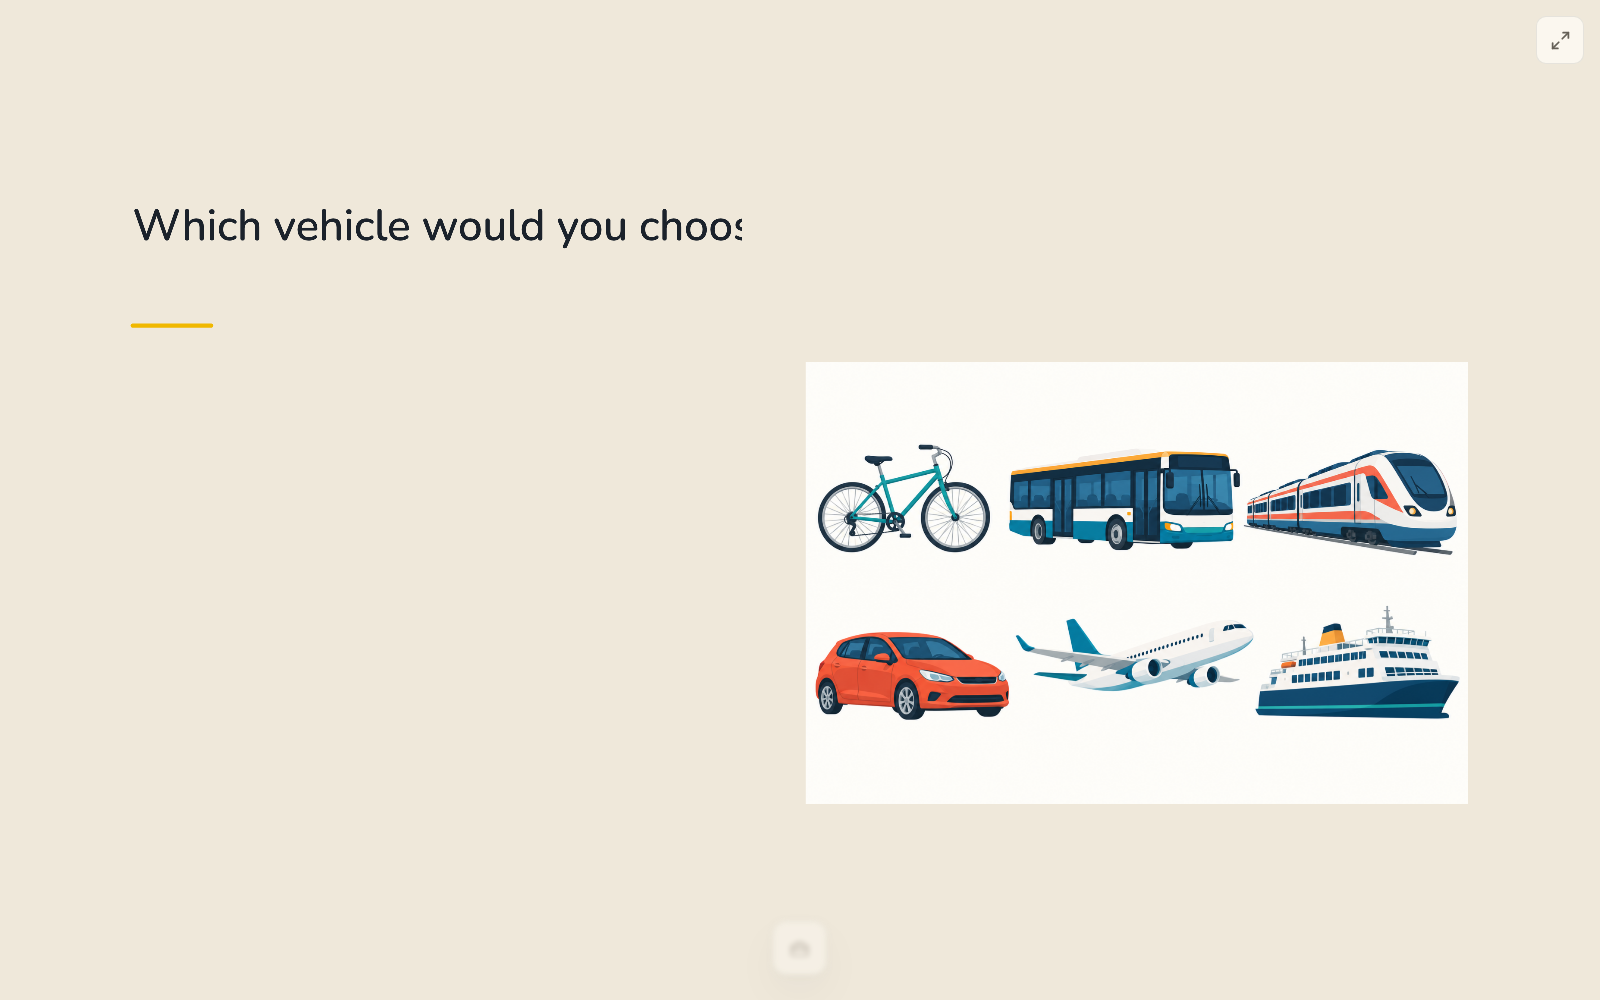
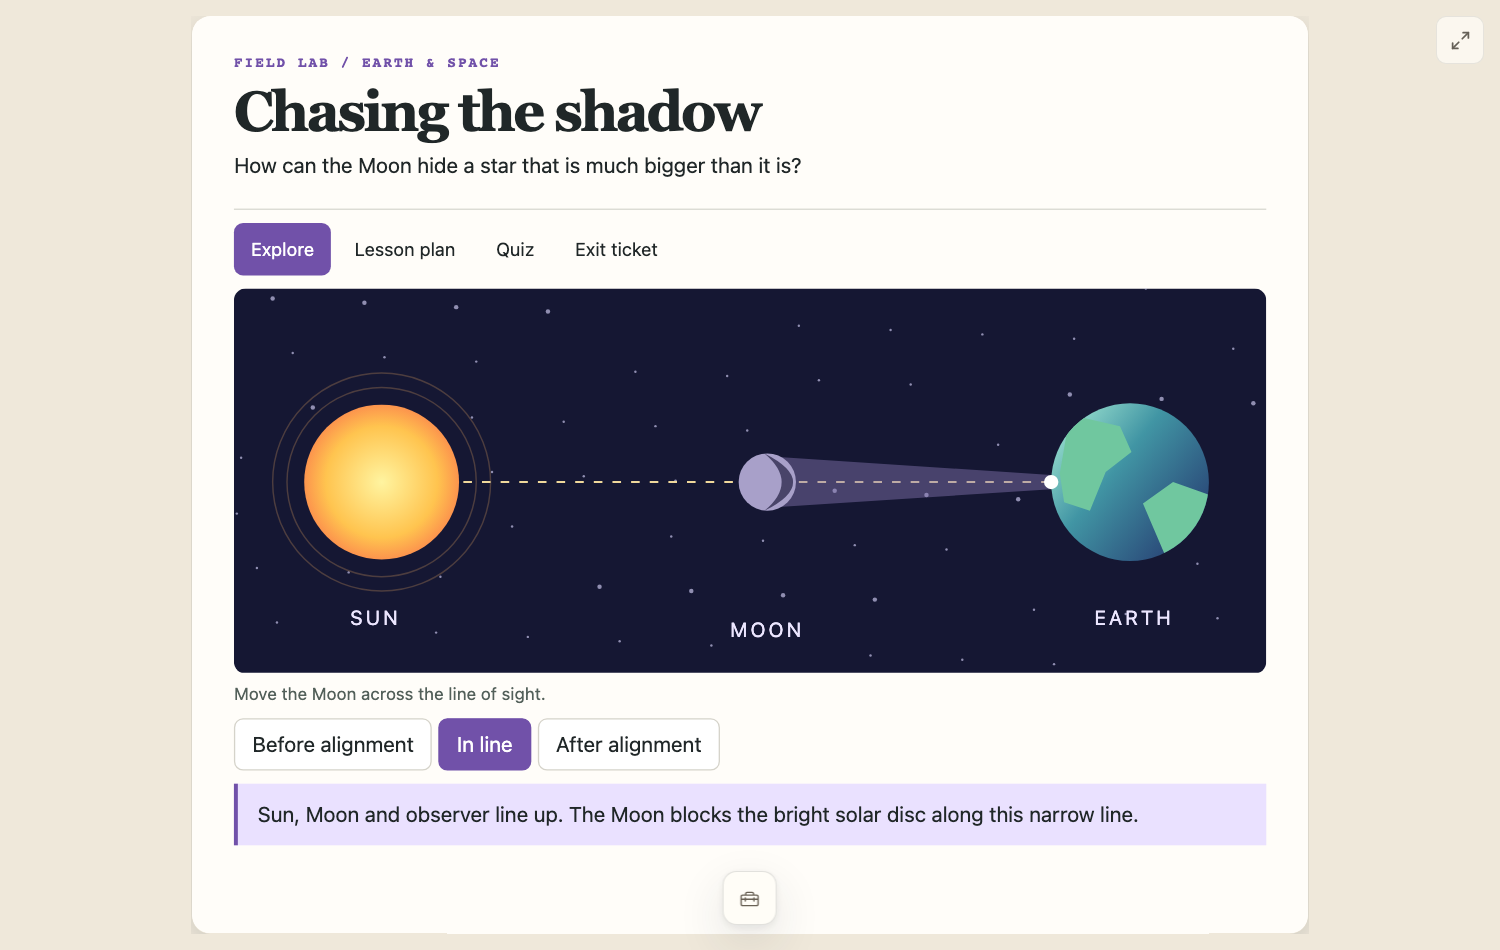
Offer a read-only hosted classroom preview with three interactive lessons

diff --git a/preview/guide.html b/preview/guide.html
@@ -1,0 +1,1 @@
+<!doctype html><html lang="en"><meta charset="utf-8"><meta name="viewport" content="width=device-width,initial-scale=1"><title>Tafelraum · Lesson guide</title><style>*{box-sizing:border-box}body{margin:0;background:#f5f0e7;color:#223430;font:17px/1.55 system-ui,sans-serif}main{max-width:780px;margin:7vh auto;padding:24px}h1{font:56px/1 Georgia,serif;letter-spacing:-.05em}a{color:#145649}article{background:#fffdf8;border-radius:12px;padding:14px 22px;margin:14px 0}h2{margin:0;font:26px Georgia,serif}small{display:block;color:#52645c;font-size:13px;margin-bottom:6px}</style><main><small>TAFELRAUM / PUBLIC PREVIEW</small><h1>Field investigations</h1><p>Try three 45-minute lessons on the real teacher canvas. Use the hand tool to operate each activity. Explore the diagram, open <b>Quiz</b>, then try <b>Present → Room Canvas</b> and select clip 1 to see just the material.</p><article><small>EARTH SCIENCE</small><h2><a href="/?lesson=eclipse">Chasing the shadow</a></h2><p>Move the Moon through three positions and explain who sees a solar eclipse.</p><a href="/api/archive/lessons/eclipse/materials/interactive/eclipse/index.html">Open just the activity</a></article><article><small>MATHEMATICS</small><h2><a href="/?lesson=map-room">The map room</a></h2><p>Trace two survey trails and use the scale to choose a route under a time limit.</p><a href="/api/archive/lessons/map-room/materials/interactive/map-room/index.html">Open just the activity</a></article><article><small>ENGLISH</small><h2><a href="/?lesson=dispatch">The midnight dispatch</a></h2><p>Compare three harbour records and decide which headline the evidence supports.</p><a href="/api/archive/lessons/dispatch/materials/interactive/dispatch/index.html">Open just the activity</a></article><p>You can draw, navigate and try the activities. Reloading restores the starting lesson. Imports, archive management and agent connections require your own local installation.</p></main></html>

diff --git a/preview/bootstrap.js b/preview/bootstrap.js
@@ -1,0 +1,30 @@
+// Only loaded by the static preview. No lesson, preference or answer survives a reload.
+{
+  const entries = new Map([['tafelraum-ui-language-v1','en']]);
+  const requested = new URL(location.href).searchParams.get('lesson');
+  entries.set('surface-lab-active-lesson',['eclipse','map-room','dispatch'].includes(requested)?requested:'eclipse');
+  const memory = {get length(){return entries.size},getItem:k=>entries.get(k)??null,setItem:(k,v)=>entries.set(String(k),String(v)),removeItem:k=>entries.delete(k),clear:()=>entries.clear(),key:i=>[...entries.keys()][i]??null};
+  Object.defineProperty(window,'localStorage',{value:memory});
+  Object.defineProperty(window,'sessionStorage',{value:memory});
+}
+// Catalogue reconciliation runs on startup. Acknowledge it in this tab only.
+// Other non-read requests never leave the browser, including attempted uploads.
+{
+  const read=window.fetch.bind(window);
+  let catalog;
+  window.fetch=async (input,options)=>{
+    const address=new URL(typeof input==='string'|| input instanceof URL ? input : input.url,location.href);
+    const method=(options?.method || (input instanceof Request ? input.method : 'GET')).toUpperCase();
+    if(address.origin!==location.origin && !['blob:','data:'].includes(address.protocol))return Response.error();
+    if(address.pathname==='/api/archive'){
+      if(method==='PUT'){
+        const original=await (await read('/api/archive')).json();
+        catalog={...original,catalog:JSON.parse(options.body).catalog};
+        return Response.json(catalog);
+      }
+      if(method==='GET'&&catalog)return Response.json(catalog);
+    }
+    if(method!=='GET'&&method!=='HEAD')return Response.json({error:'This action is unavailable in the preview.'},{status:405});
+    return read(input,options);
+  };
+}

diff --git a/preview/preview.css b/preview/preview.css
@@ -1,0 +1,3 @@
+#preview-bar{height:34px;box-sizing:border-box;display:flex;align-items:center;gap:18px;padding:0 15px;color:#fff;background:#253637;font:13px system-ui,sans-serif}#preview-bar strong{font-weight:650}#preview-bar a{color:#e0efe8}#preview-bar span{margin-right:auto}body:has(#preview-bar) #root{height:calc(100dvh - 34px);position:relative;overflow:hidden}body:has(#preview-bar) .app-shell{height:100%;min-height:0}#settings-connections-title,#settings-connections-title~*,.archive-add,.lesson-add{display:none!important}
+@media(max-width:720px){#preview-bar{gap:10px;font-size:12px}#preview-bar span{display:none}#preview-bar a:first-of-type{margin-left:auto}}
+.archive-add-button,.archive-subject-create,.archive-trash,.archive-context-menu,.student-notes-trigger,.material-file-input,.archive-class-menu,.archive-class-trigger{display:none!important}

diff --git a/README.md b/README.md
@@ -4,7 +4,22 @@
 
 **An AI-powered local whiteboard for teaching.** Bring your own AI agent to turn a lesson idea into materials, arrange them on the board and prepare what the class will see. Then pick up the pen and teach on that same canvas.
 
-![The teacher’s canvas with an illustrated transport lesson, drawing tools and lesson navigation](docs/images/teacher-canvas.png)
+**[Try the live demo](https://tafelraum-demo.jujies.app/guide.html)** · No installation or account needed. Open a lesson, try its HTML activity or send a numbered clip to Room Canvas. Reload to start fresh.
+
+![The teacher’s canvas with a survey map, two trails and a partner task beside the map](docs/images/teacher-canvas.png)
+
+<details>
+<summary>Explore the three demo lessons</summary>
+
+- **[The map room](https://tafelraum-demo.jujies.app/?lesson=map-room)** — Trace a ridge trail and a river trail. Use the scale to decide which one fits a 25-minute hike.
+- **[Chasing the shadow](https://tafelraum-demo.jujies.app/?lesson=eclipse)** — Move the Moon through three positions and predict which observer would see an eclipse.
+- **[The midnight dispatch](https://tafelraum-demo.jujies.app/?lesson=dispatch)** — Cross-check a harbour log, a radio note and a delivery slip. Write a headline the evidence supports.
+
+![The midnight dispatch in the teacher view, with a lighthouse illustration, three selectable records and an evidence prompt](docs/images/midnight-dispatch.png)
+
+Each lesson includes a 45-minute plan, a two-question quiz with feedback and an exit ticket. On a phone, choose **Open just the activity** in the lesson guide.
+
+</details>
 
 ## Features at a glance
 
@@ -44,9 +59,9 @@ What made AI useful to me was being able to ask for something that would be *the
 
 ## What you can ask your AI agent to do
 
-Here’s a prompt I could use with the transport lesson above:
+Here’s a follow-up I could ask for after teaching the map lesson above:
 
-> In my “Ways to travel” lesson, make a short activity for pairs. Ask students to choose between the bus and the train and give two reasons in English. Add the activity to the lesson, place it beside the transport picture and make a numbered clip that shows just the task.
+> In “The map room”, make a follow-up task for pairs: design a third route that is exactly 2.5 km long. Keep the map scale at 250 m per grid edge. Put the task beside the map and prepare a numbered clip so I can show it after we compare the first two trails.
 
 The **agent you choose** supplies the AI. Tafelraum gives it tools to work with actual lessons and boards. With the teacher window open, you can ask it to:
 
@@ -65,7 +80,7 @@ The **agent you choose** supplies the AI. Tafelraum gives it tools to work with 
 <details>
 <summary>See the classroom view</summary>
 
-![Room Canvas showing the same transport lesson without the teacher’s lesson navigation](docs/images/room-canvas.png)
+![Room Canvas projecting the eclipse activity: the Moon lines up between the Sun and Earth](docs/images/room-canvas.png)
 
 Room Canvas opens a second local window. You can try both windows on one screen before connecting a projector.
 

diff --git a/preview/README.md b/preview/README.md
@@ -1,0 +1,18 @@
+# Public lesson preview
+
+The hosted preview uses the public Tafelraum teacher canvas and Room Canvas with three original English sample lessons. Each has a 45-minute plan, an interactive diagram or evidence set, two quiz questions and an exit ticket. Open the [lesson guide](https://tafelraum-demo.jujies.app/guide.html).
+
+## Run a separate preview
+
+Install the app dependencies as described in the main README. From the repository root, use Node 22.18 or later:
+
+```sh
+node preview/build.mjs
+node preview/serve.mjs output/public-preview 5987
+```
+
+Open `http://127.0.0.1:5987/guide.html`. With Chromium installed through the app’s Playwright dependency, run `node preview/check.mjs` in another terminal to exercise all three activities, Room synchronisation, cross-tab isolation and reload.
+
+The build validates the HTML packages and reads only an automatically created temporary sample archive. It uses the normal public app build and substitutes a tab-memory canvas store for this preview only. The HTTP service reads compiled files from `dist/` and an explicit table of synthetic lesson responses from `routes.json`. It accepts GET and HEAD only. For hosting, copy those two outputs and `serve.mjs` to a dedicated static-service directory behind HTTPS. The normal development server and the desktop archive service are unnecessary.
+
+Drawings, preferences and exercise answers in the preview stay in the current page’s memory. The teacher and its Room window can share the current activity. Reload the teacher page to start over. The guide also links directly to each activity for smaller screens.

diff --git a/ASSET_PROVENANCE.md b/ASSET_PROVENANCE.md
@@ -42,3 +42,7 @@ mit lokalen Assets und zentraler Layoutorientierung. Herkunft und gesonderte
 Bild-/Iconlizenzen stehen im [Referenznachweis](docs/agent-references/PROVENANCE.md).
 Eigene Inhalte folgen der Projektlizenz; CC-BY-SA-/ISC-Fremdanteile behalten
 ihre jeweiligen Bedingungen. Technische Beispiele bleiben separat.
+
+## Public preview lessons
+
+The eclipse diagram, survey map and harbour illustration are original inline SVGs drawn in [the preview lesson source](preview/lessons/illustrations.mjs). The routes, records and teaching prompts are invented examples. The README screenshots were captured from the public preview's teacher and Room windows with [the browser check](preview/check.mjs). They contain only the bundled sample lessons.
